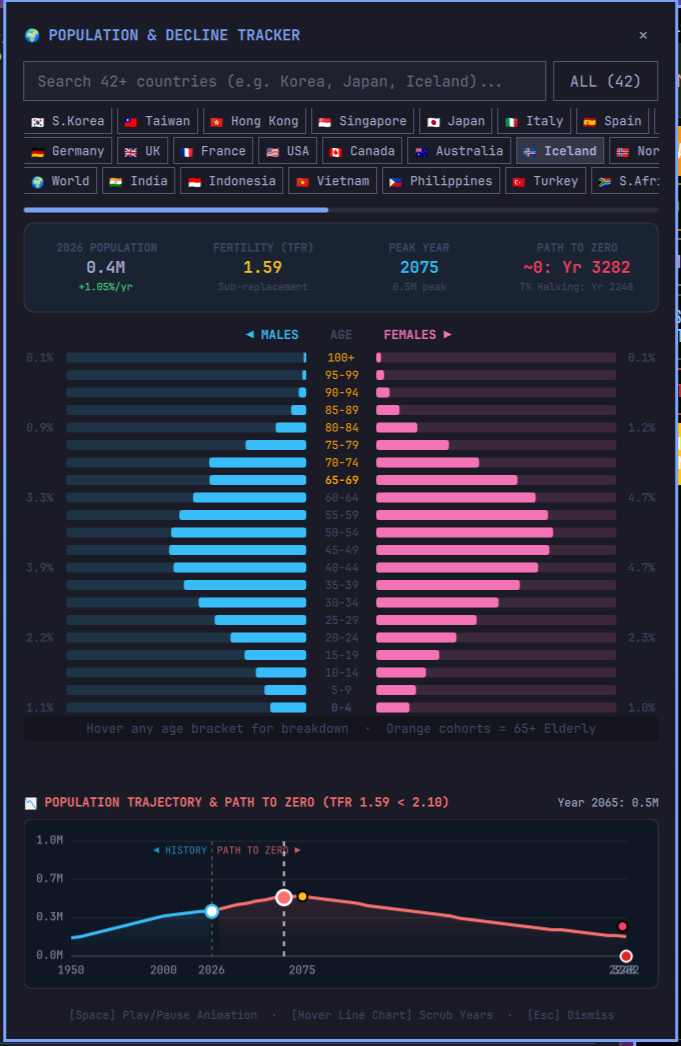
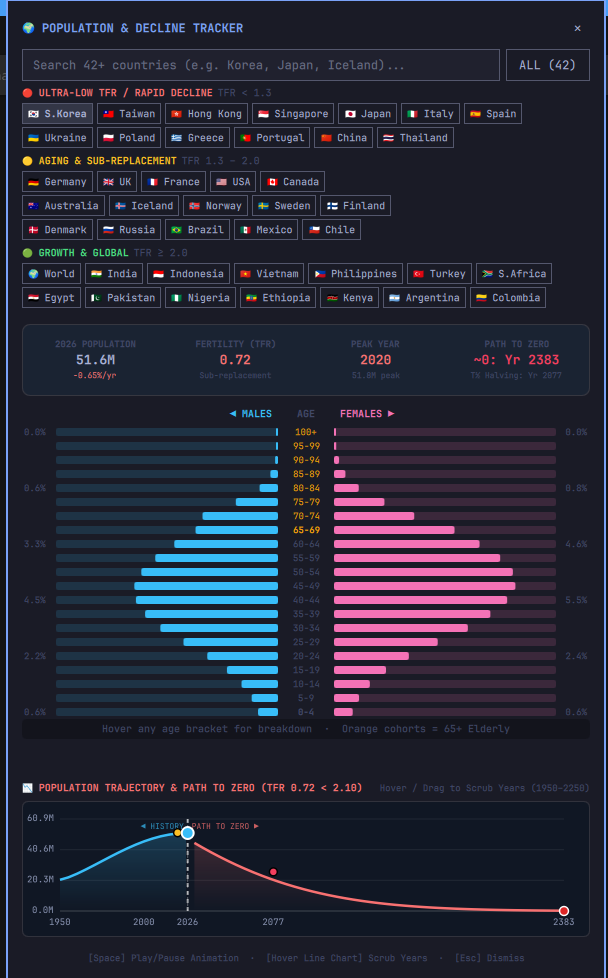
feat: 7 flag lines grouped into 3 severity tiers
The quick-picker was 3 long rows -- one per severity tier -- that overflowed
the panel and needed horizontal scrolling to reach most countries.

Countries now live in a single `severityTiers` model that carries each tier's
label, TFR band, color and line count, and `chunkLines()` wraps a tier across
that many balanced lines (13 -> 7+6, 15 -> 5+5+5, 14 -> 7+7) for 7 lines total.
Each tier gets a colored header showing its TFR band, so the grouping stays
readable now that a tier spans more than one line.

- Panel widened 540 -> 600 so a 7-flag line fits; all 42 are visible at once
- Flag block height now derives from its content instead of a fixed 84
- Horizontal scrollbar only shows when a line actually overflows
- Tier header colors match the TFR readout in the vital statistics card
- Refresh preview.png for the new layout

diff --git a/BarWidget.qml b/BarWidget.qml
@@ -42,57 +42,97 @@ BarWidget {
 
   readonly property var pyramidYearsList: [1950, 1970, 1990, 2000, 2010, 2020, 2026, 2030, 2040, 2050, 2060, 2070, 2080, 2090, 2100]
 
-  // 3 Categorized Rows of Countries/Flags for Fast Quick-Access
-  readonly property var line1Countries: [
-    { code: "KOR", label: "🇰🇷 S.Korea" },
-    { code: "TWN", label: "🇹🇼 Taiwan" },
-    { code: "HKG", label: "🇭🇰 Hong Kong" },
-    { code: "SGP", label: "🇸🇬 Singapore" },
-    { code: "JPN", label: "🇯🇵 Japan" },
-    { code: "ITA", label: "🇮🇹 Italy" },
-    { code: "ESP", label: "🇪🇸 Spain" },
-    { code: "UKR", label: "🇺🇦 Ukraine" },
-    { code: "POL", label: "🇵🇱 Poland" },
-    { code: "GRC", label: "🇬🇷 Greece" },
-    { code: "PRT", label: "🇵🇹 Portugal" },
-    { code: "CHN", label: "🇨🇳 China" },
-    { code: "THA", label: "🇹🇭 Thailand" }
+  // 42 countries in 3 severity tiers, wrapped across 7 flag lines (2 + 3 + 2).
+  // Tier colors match the TFR readout in the vital statistics card.
+  readonly property var severityTiers: [
+    {
+      key: "critical",
+      dot: "\ud83d\udd34",
+      label: "ULTRA-LOW TFR / RAPID DECLINE",
+      range: "< 1.3",
+      color: "#f87171",
+      lines: 2,
+      countries: [
+        { code: "KOR", label: "\ud83c\uddf0\ud83c\uddf7 S.Korea" },
+        { code: "TWN", label: "\ud83c\uddf9\ud83c\uddfc Taiwan" },
+        { code: "HKG", label: "\ud83c\udded\ud83c\uddf0 Hong Kong" },
+        { code: "SGP", label: "\ud83c\uddf8\ud83c\uddec Singapore" },
+        { code: "JPN", label: "\ud83c\uddef\ud83c\uddf5 Japan" },
+        { code: "ITA", label: "\ud83c\uddee\ud83c\uddf9 Italy" },
+        { code: "ESP", label: "\ud83c\uddea\ud83c\uddf8 Spain" },
+        { code: "UKR", label: "\ud83c\uddfa\ud83c\udde6 Ukraine" },
+        { code: "POL", label: "\ud83c\uddf5\ud83c\uddf1 Poland" },
+        { code: "GRC", label: "\ud83c\uddec\ud83c\uddf7 Greece" },
+        { code: "PRT", label: "\ud83c\uddf5\ud83c\uddf9 Portugal" },
+        { code: "CHN", label: "\ud83c\udde8\ud83c\uddf3 China" },
+        { code: "THA", label: "\ud83c\uddf9\ud83c\udded Thailand" }
+      ]
+    },
+    {
+      key: "aging",
+      dot: "\ud83d\udfe1",
+      label: "AGING & SUB-REPLACEMENT",
+      range: "1.3 \u2013 2.0",
+      color: "#fbbf24",
+      lines: 3,
+      countries: [
+        { code: "DEU", label: "\ud83c\udde9\ud83c\uddea Germany" },
+        { code: "GBR", label: "\ud83c\uddec\ud83c\udde7 UK" },
+        { code: "FRA", label: "\ud83c\uddeb\ud83c\uddf7 France" },
+        { code: "USA", label: "\ud83c\uddfa\ud83c\uddf8 USA" },
+        { code: "CAN", label: "\ud83c\udde8\ud83c\udde6 Canada" },
+        { code: "AUS", label: "\ud83c\udde6\ud83c\uddfa Australia" },
+        { code: "ISL", label: "\ud83c\uddee\ud83c\uddf8 Iceland" },
+        { code: "NOR", label: "\ud83c\uddf3\ud83c\uddf4 Norway" },
+        { code: "SWE", label: "\ud83c\uddf8\ud83c\uddea Sweden" },
+        { code: "FIN", label: "\ud83c\uddeb\ud83c\uddee Finland" },
+        { code: "DNK", label: "\ud83c\udde9\ud83c\uddf0 Denmark" },
+        { code: "RUS", label: "\ud83c\uddf7\ud83c\uddfa Russia" },
+        { code: "BRA", label: "\ud83c\udde7\ud83c\uddf7 Brazil" },
+        { code: "MEX", label: "\ud83c\uddf2\ud83c\uddfd Mexico" },
+        { code: "CHL", label: "\ud83c\udde8\ud83c\uddf1 Chile" }
+      ]
+    },
+    {
+      key: "growth",
+      dot: "\ud83d\udfe2",
+      label: "GROWTH & GLOBAL",
+      range: "\u2265 2.0",
+      color: "#4ade80",
+      lines: 2,
+      countries: [
+        { code: "WLD", label: "\ud83c\udf0d World" },
+        { code: "IND", label: "\ud83c\uddee\ud83c\uddf3 India" },
+        { code: "IDN", label: "\ud83c\uddee\ud83c\udde9 Indonesia" },
+        { code: "VNM", label: "\ud83c\uddfb\ud83c\uddf3 Vietnam" },
+        { code: "PHL", label: "\ud83c\uddf5\ud83c\udded Philippines" },
+        { code: "TUR", label: "\ud83c\uddf9\ud83c\uddf7 Turkey" },
+        { code: "ZAF", label: "\ud83c\uddff\ud83c\udde6 S.Africa" },
+        { code: "EGY", label: "\ud83c\uddea\ud83c\uddec Egypt" },
+        { code: "PAK", label: "\ud83c\uddf5\ud83c\uddf0 Pakistan" },
+        { code: "NGA", label: "\ud83c\uddf3\ud83c\uddec Nigeria" },
+        { code: "ETH", label: "\ud83c\uddea\ud83c\uddf9 Ethiopia" },
+        { code: "KEN", label: "\ud83c\uddf0\ud83c\uddea Kenya" },
+        { code: "ARG", label: "\ud83c\udde6\ud83c\uddf7 Argentina" },
+        { code: "COL", label: "\ud83c\udde8\ud83c\uddf4 Colombia" }
+      ]
+    }
   ]
 
-  readonly property var line2Countries: [
-    { code: "DEU", label: "🇩🇪 Germany" },
-    { code: "GBR", label: "🇬🇧 UK" },
-    { code: "FRA", label: "🇫🇷 France" },
-    { code: "USA", label: "🇺🇸 USA" },
-    { code: "CAN", label: "🇨🇦 Canada" },
-    { code: "AUS", label: "🇦🇺 Australia" },
-    { code: "ISL", label: "🇮🇸 Iceland" },
-    { code: "NOR", label: "🇳🇴 Norway" },
-    { code: "SWE", label: "🇸🇪 Sweden" },
-    { code: "FIN", label: "🇫🇮 Finland" },
-    { code: "DNK", label: "🇩🇰 Denmark" },
-    { code: "RUS", label: "🇷🇺 Russia" },
-    { code: "BRA", label: "🇧🇷 Brazil" },
-    { code: "MEX", label: "🇲🇽 Mexico" },
-    { code: "CHL", label: "🇨🇱 Chile" }
-  ]
-
-  readonly property var line3Countries: [
-    { code: "WLD", label: "🌍 World" },
-    { code: "IND", label: "🇮🇳 India" },
-    { code: "IDN", label: "🇮🇩 Indonesia" },
-    { code: "VNM", label: "🇻🇳 Vietnam" },
-    { code: "PHL", label: "🇵🇭 Philippines" },
-    { code: "TUR", label: "🇹🇷 Turkey" },
-    { code: "ZAF", label: "🇿🇦 S.Africa" },
-    { code: "EGY", label: "🇪🇬 Egypt" },
-    { code: "PAK", label: "🇵🇰 Pakistan" },
-    { code: "NGA", label: "🇳🇬 Nigeria" },
-    { code: "ETH", label: "🇪🇹 Ethiopia" },
-    { code: "KEN", label: "🇰🇪 Kenya" },
-    { code: "ARG", label: "🇦🇷 Argentina" },
-    { code: "COL", label: "🇨🇴 Colombia" }
-  ]
+  // Split a tier into `lineCount` balanced lines: (13, 2) -> [7, 6], (15, 3) -> [5, 5, 5]
+  function chunkLines(items, lineCount) {
+    if (!items || items.length === 0 || lineCount < 1) return []
+    var lines = []
+    var base = Math.floor(items.length / lineCount)
+    var extra = items.length % lineCount
+    var start = 0
+    for (var i = 0; i < lineCount; i++) {
+      var take = base + (i < extra ? 1 : 0)
+      lines.push(items.slice(start, start + take))
+      start += take
+    }
+    return lines
+  }
 
   function open() {
     popupOpen = true
@@ -196,7 +236,7 @@ BarWidget {
     open: root.popupOpen
     centerOnBar: true
     focusTarget: keyCatcher
-    contentWidth: panel.fittedContentWidth(Style.space(540))
+    contentWidth: panel.fittedContentWidth(Style.space(600))
     contentHeight: panel.fittedContentHeight(mainColumn.implicitHeight)
 
     PanelKeyCatcher {
@@ -319,11 +359,11 @@ BarWidget {
             }
           }
 
-          // 3 Flag Lines with Horizontal Scrollbar
+          // 7 Flag Lines, Grouped Into 3 Severity Tiers
           Item {
             visible: !root.showingSearchList
             width: parent.width
-            height: Style.space(84)
+            height: flagColumn.implicitHeight + Style.space(8)
 
             Flickable {
               id: flagFlickable
@@ -336,64 +376,68 @@ BarWidget {
 
               Column {
                 id: flagColumn
-                spacing: Style.space(3)
+                spacing: Style.space(6)
 
-                // Line 1: Ultra-Low TFR & Rapid Decline (< 1.3)
-                Row {
-                  spacing: Style.space(4)
-                  Repeater {
-                    model: root.line1Countries
-                    Button {
-                      height: Style.space(21)
-                      text: modelData.label
-                      bordered: true
-                      selected: modelData.code === root.selectedCountryCode
-                      fontSize: 9.5
-                      horizontalPadding: Style.space(5)
-                      onClicked: root.selectCountry(modelData.code)
+                Repeater {
+                  model: root.severityTiers
+
+                  Column {
+                    id: tierBlock
+                    readonly property var tier: modelData
+                    spacing: Style.space(3)
+
+                    // Tier header: severity dot, name, and TFR band
+                    Row {
+                      spacing: Style.space(5)
+
+                      Text {
+                        text: tierBlock.tier.dot + " " + tierBlock.tier.label
+                        color: tierBlock.tier.color
+                        font.family: Style.font.family
+                        font.pixelSize: Style.font.caption
+                        font.bold: true
+                      }
+
+                      Text {
+                        text: "TFR " + tierBlock.tier.range
+                        color: Color.muted
+                        font.family: Style.font.family
+                        font.pixelSize: Style.font.caption
+                      }
                     }
-                  }
-                }
 
-                // Line 2: Aging & Sub-replacement (1.3 - 2.0)
-                Row {
-                  spacing: Style.space(4)
-                  Repeater {
-                    model: root.line2Countries
-                    Button {
-                      height: Style.space(21)
-                      text: modelData.label
-                      bordered: true
-                      selected: modelData.code === root.selectedCountryCode
-                      fontSize: 9.5
-                      horizontalPadding: Style.space(5)
-                      onClicked: root.selectCountry(modelData.code)
-                    }
-                  }
-                }
+                    Repeater {
+                      model: root.chunkLines(tierBlock.tier.countries, tierBlock.tier.lines)
 
-                // Line 3: Growth & Global (≥ 2.0)
-                Row {
-                  spacing: Style.space(4)
-                  Repeater {
-                    model: root.line3Countries
-                    Button {
-                      height: Style.space(21)
-                      text: modelData.label
-                      bordered: true
-                      selected: modelData.code === root.selectedCountryCode
-                      fontSize: 9.5
-                      horizontalPadding: Style.space(5)
-                      onClicked: root.selectCountry(modelData.code)
+                      Row {
+                        id: flagLine
+                        readonly property var lineCountries: modelData
+                        spacing: Style.space(4)
+
+                        Repeater {
+                          model: flagLine.lineCountries
+
+                          Button {
+                            height: Style.space(21)
+                            text: modelData.label
+                            bordered: true
+                            selected: modelData.code === root.selectedCountryCode
+                            fontSize: 9.5
+                            horizontalPadding: Style.space(5)
+                            onClicked: root.selectCountry(modelData.code)
+                          }
+                        }
+                      }
                     }
                   }
                 }
               }
             }
 
-            // Sleek Scroll Bar Track & Thumb
+            // Sleek Scroll Bar Track & Thumb -- only shown when a line overflows
             Rectangle {
               id: scrollTrack
+              visible: flagFlickable.contentWidth > flagFlickable.width + 1
               anchors.bottom: parent.bottom
               anchors.left: parent.left
               anchors.right: parent.right

diff --git a/README.md b/README.md
@@ -6,10 +6,13 @@ An interactive demographic analysis, population decline tracker, and vertical ag
 
 ## Features
 
-- **3 Flag Quick-Picker Rows with Scrollbar:**
-  - **🔴 Ultra-Low TFR / Rapid Decline (< 1.3):** 🇰🇷 S.Korea, 🇹🇼 Taiwan, 🇭🇰 HK, 🇸🇬 Singapore, 🇯🇵 Japan, 🇮🇹 Italy, 🇪🇸 Spain, 🇺🇦 Ukraine, 🇵🇱 Poland, 🇬🇷 Greece, 🇵🇹 Portugal, 🇨🇳 China, 🇹🇭 Thailand
-  - **🟡 Aging & Sub-Replacement (1.3–2.0):** 🇩🇪 Germany, 🇬🇧 UK, 🇫🇷 France, 🇺🇸 USA, 🇨🇦 Canada, 🇦🇺 Australia, 🇮🇸 Iceland, 🇳🇴 Norway, 🇸🇪 Sweden, 🇫🇮 Finland, 🇩🇰 Denmark, 🇷🇺 Russia, 🇧🇷 Brazil, 🇲🇽 Mexico, 🇨🇱 Chile
-  - **🟢 Growth & Global (≥ 2.0):** 🌍 World, 🇮🇳 India, 🇮🇩 Indonesia, 🇻🇳 Vietnam, 🇵🇭 Philippines, 🇹🇷 Turkey, 🇿🇦 S.Africa, 🇪🇬 Egypt, 🇵🇰 Pakistan, 🇳🇬 Nigeria, 🇪🇹 Ethiopia, 🇰🇪 Kenya, 🇦🇷 Argentina, 🇨🇴 Colombia
+- **7 Flag Quick-Picker Lines, Grouped Into 3 Severity Tiers:**
+  All 42 countries are visible at once — no scrolling. Each tier carries a colored
+  header with its TFR band, and its countries wrap across a fixed number of lines
+  (2 + 3 + 2 = 7):
+  - **🔴 Ultra-Low TFR / Rapid Decline (< 1.3)** — 2 lines: 🇰🇷 S.Korea, 🇹🇼 Taiwan, 🇭🇰 HK, 🇸🇬 Singapore, 🇯🇵 Japan, 🇮🇹 Italy, 🇪🇸 Spain, 🇺🇦 Ukraine, 🇵🇱 Poland, 🇬🇷 Greece, 🇵🇹 Portugal, 🇨🇳 China, 🇹🇭 Thailand
+  - **🟡 Aging & Sub-Replacement (1.3–2.0)** — 3 lines: 🇩🇪 Germany, 🇬🇧 UK, 🇫🇷 France, 🇺🇸 USA, 🇨🇦 Canada, 🇦🇺 Australia, 🇮🇸 Iceland, 🇳🇴 Norway, 🇸🇪 Sweden, 🇫🇮 Finland, 🇩🇰 Denmark, 🇷🇺 Russia, 🇧🇷 Brazil, 🇲🇽 Mexico, 🇨🇱 Chile
+  - **🟢 Growth & Global (≥ 2.0)** — 2 lines: 🌍 World, 🇮🇳 India, 🇮🇩 Indonesia, 🇻🇳 Vietnam, 🇵🇭 Philippines, 🇹🇷 Turkey, 🇿🇦 S.Africa, 🇪🇬 Egypt, 🇵🇰 Pakistan, 🇳🇬 Nigeria, 🇪🇹 Ethiopia, 🇰🇪 Kenya, 🇦🇷 Argentina, 🇨🇴 Colombia
 - **Vertical Age-Sex Population Pyramid:** 21 age brackets (0–4 to 100+) with male (cyan) and female (rose) bilateral cohorts and hover tooltips.
 - **Continuous Trajectory Line Chart:**
   - **Sub-Replacement (TFR < 2.1):** Historical curve (1950–2026) followed by post-peak decline to **Zero / Extinction Horizon**.
